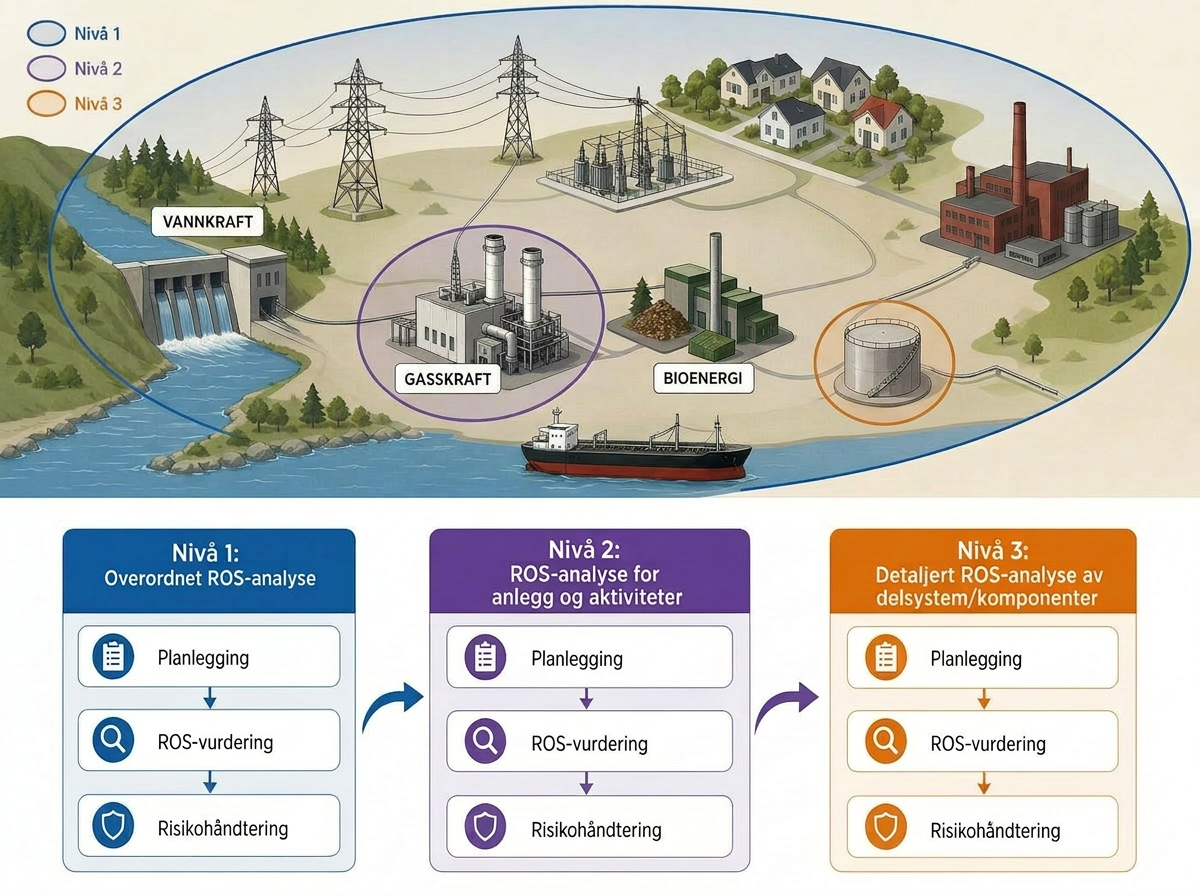
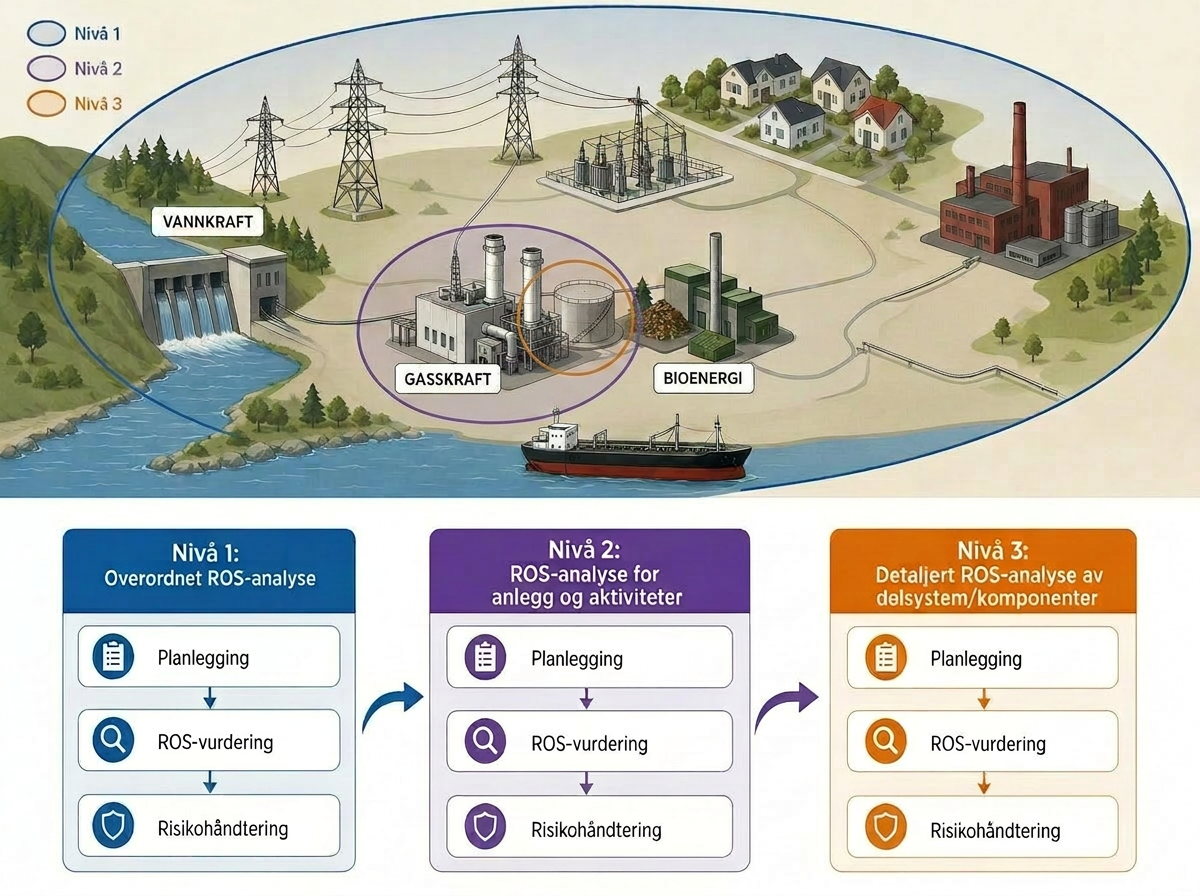
Changes

diff --git a/.lovable/plan.md b/.lovable/plan.md
@@ -1,18 +1,16 @@
-## Plan: Justere Nivå 2-sirkel i illustrasjonen
+## Plan: Flytte Nivå 3-silo inn i Nivå 2-sirkel
 
-Den lilla Nivå 2-sirkelen dekker i dag både gasskraftverket og bioenergiverket. Den skal snevres inn slik at den kun omslutter gasskraftverket (med tilhørende skorsteiner/anlegg), mens bioenergiverket ligger utenfor sirkelen — kun innenfor den store blå Nivå 1-sonen.
+For å tydeligere illustrere hierarkiet (Nivå 3 ⊂ Nivå 2 ⊂ Nivå 1) skal den oransje ringen med tilhørende silo flyttes slik at den står rett ved siden av gasskraftverket, inne i den lilla Nivå 2-sirkelen.
 
 ### Fremgangsmåte
 
-1. Bruke `imagegen--edit_image` på eksisterende `src/assets/ros-detaljeringsnivaa.jpg` med en målrettet prompt som:
-   - Krymper den lilla ovalen til kun å omslutte gasskraftverket
-   - Flytter bioenergiverket utenfor den lilla sirkelen (fortsatt inne i blå)
-   - Beholder alt annet uendret (landskap, øvrige anlegg, tre nivå-kolonner under, tekst, farger)
-2. Overskrive samme fil slik at både input-skjema, preview (kap. 2.2) og Word-eksport automatisk bruker det oppdaterte bildet.
-3. Visuell QA: åpne resultatet og verifisere at lilla sirkel kun dekker gasskraftverket og at bioenergi tydelig er utenfor. Hvis ikke, kjøre én ny edit-runde.
+1. Bruke `imagegen--edit_image` på `src/assets/ros-detaljeringsnivaa.jpg` med en målrettet prompt som:
+   - Flytter den lille sylindriske tanken/siloen med den oransje ringen rundt til å stå like ved siden av gasskraftverket
+   - Plasserer hele den oransje sirkelen tydelig inne i den lilla Nivå 2-sirkelen
+   - Beholder den lilla sirkelen rundt gasskraftverket, blå Nivå 1-sone, bioenergiverket utenfor lilla, og alle øvrige elementer (landskap, tekst, kolonner under) uendret
+2. Overskrive samme fil – ingen kodeendringer trengs siden input-skjema, preview og Word-eksport alle bruker denne filen.
+3. Visuell QA: verifisere at oransje sirkel ligger helt inne i lilla, og lilla helt inne i blå. Kjøre ny edit-runde ved behov.
 
 ### Filer som endres
 
 - `src/assets/ros-detaljeringsnivaa.jpg` (overskrives)
-
-Ingen kodeendringer nødvendig.
